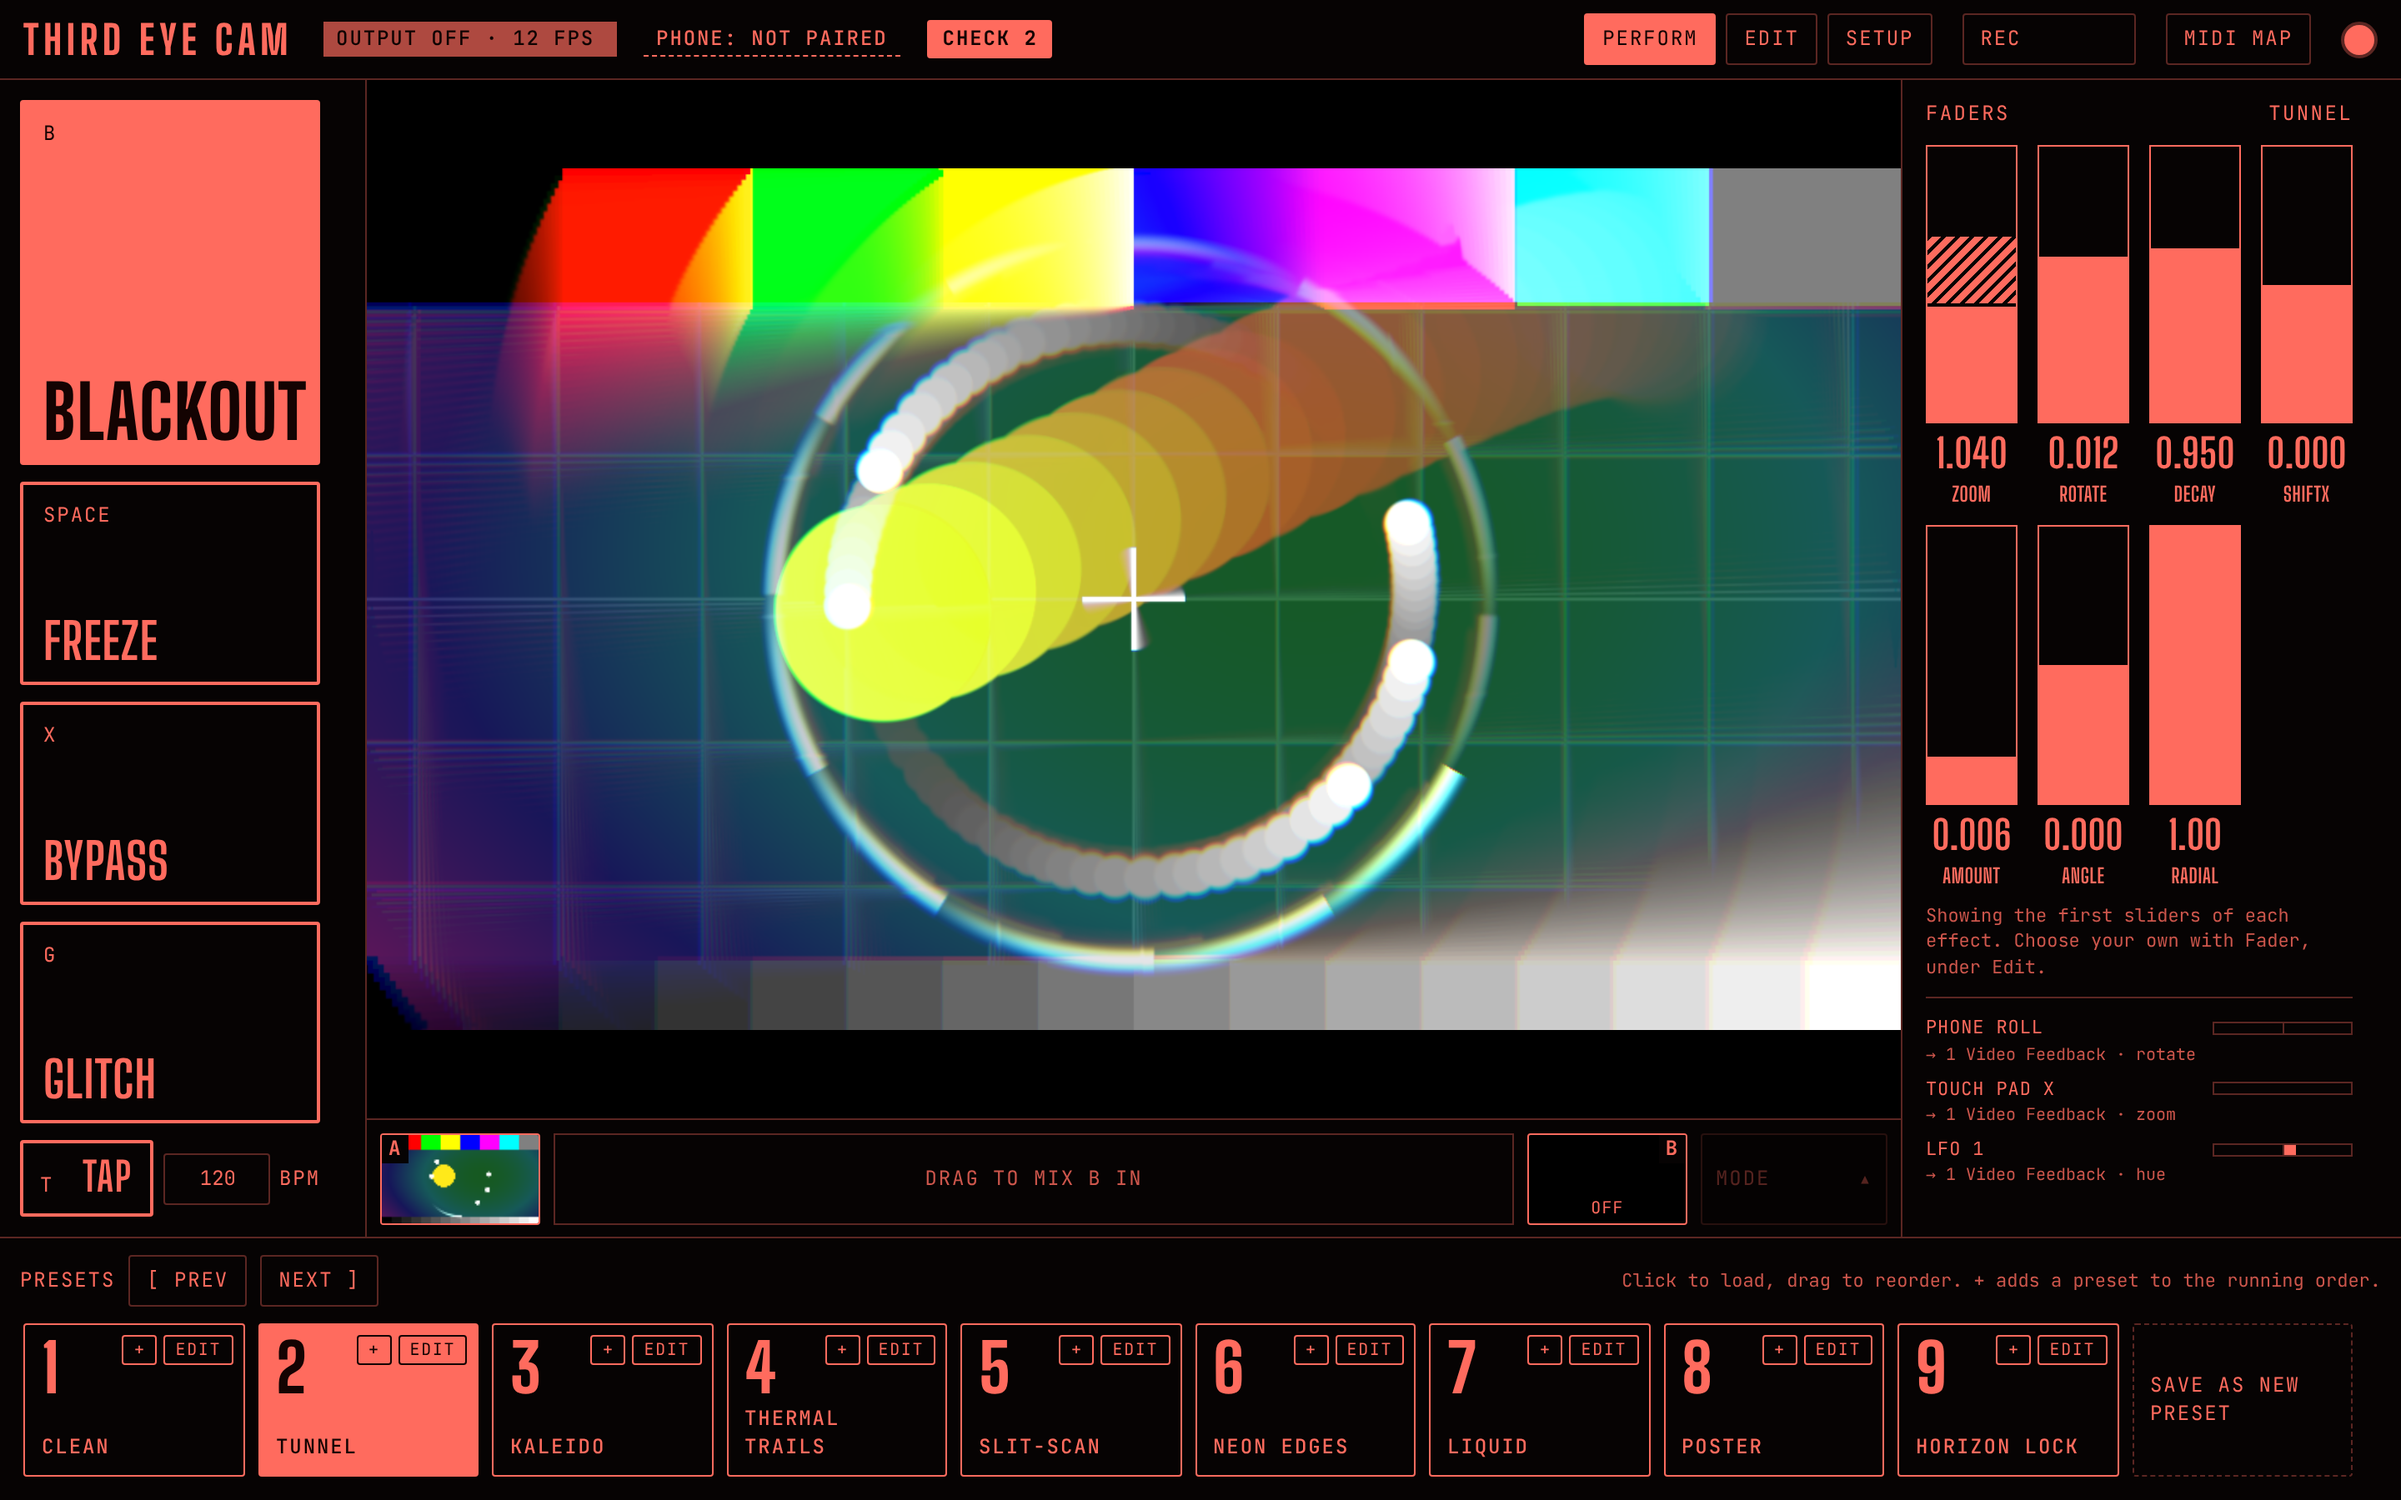
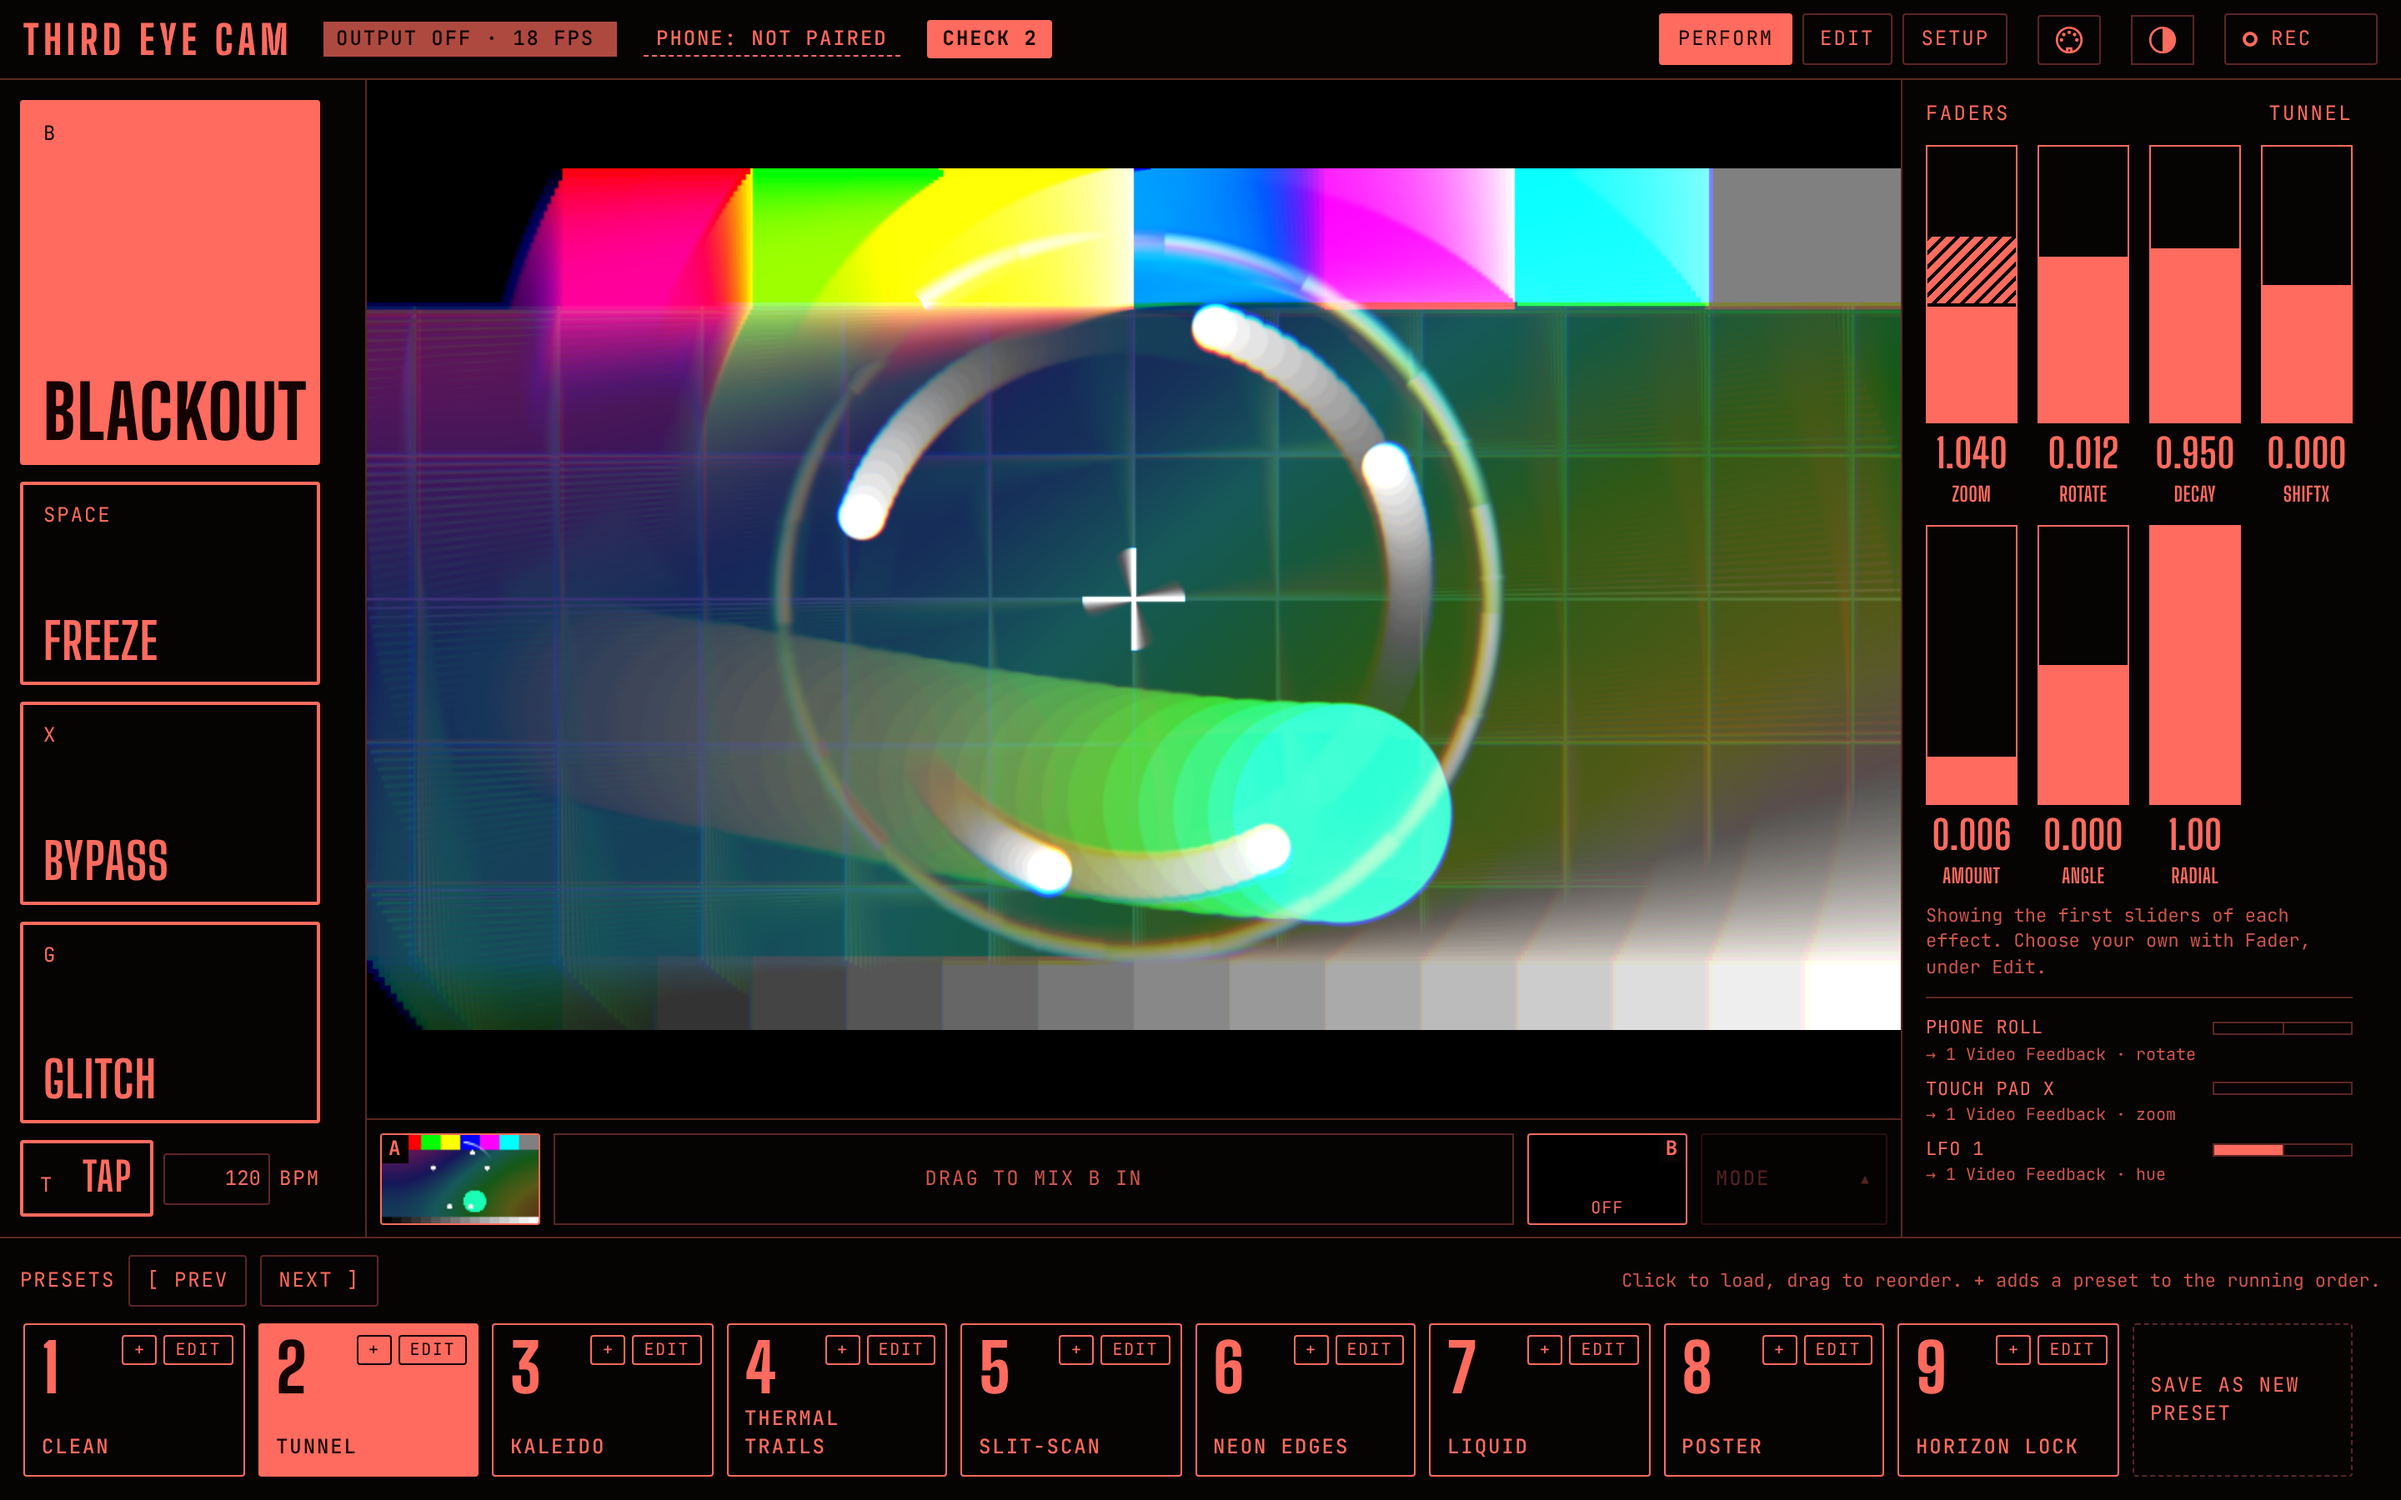
Handoff for the end of the sixth session; session screenshot
Claude-Session: https://claude.ai/code/session_0125cWe18LXathuqhzGgFDSz

diff --git a/HANDOFF.md b/HANDOFF.md
@@ -1,37 +1,46 @@
 # Handoff
 
-## 2026-11-23 (end of the sixth session, 22 to 23 November)
+## 2026-11-24 (end of the sixth session, 22 to 24 November)
 
-**Where things stand.** Stage 2 of the effects plan (the motion map, Motion,
-Gravity, Motion A / B as modulation sources) and the new Glitch are built
-and live on GitHub Pages from `main`. The owner has seen Motion and Gravity
-working on the real iPhone and Mac. Glitch, the Motion sources on a slider
-and the last round of edit screen changes have not been seen there.
+**Where things stand.** Everything is live on GitHub Pages from `main`:
+stage 2 of the effects plan (the motion map, Motion, Gravity, Motion A / B
+as modulation sources), Glitch as a jump of chosen sliders, a reordered
+top bar, a new starting screen on the Mac and an opening on the phone, and
+both screens saying so when a network keeps the phone and the Mac apart.
+The owner has used Motion, Gravity, Glitch and the top bar on the real Mac
+and scanned test codes in every palette with the iPhone; the two openings,
+the real code on the new starting screen and the blocked-network message
+have not been seen on real devices.
 
-**Next step.** On the real Mac: capture a glitch in a preset and fire it.
-Then stage 3 of the effects plan (Time and Scan).
+**Next step.** On the real iPhone and Mac: open the app in a new tab, scan
+the code in the camera, tap START. Then stage 3 of the effects plan (Time
+and Scan).
 
 **Decisions only you can make.**
 
+- Use Chrome for the Mac's control page. Your last screenshot was Safari,
+  which the page is not built or tested for.
+- If the top bar still reads "Phones: A … · B …": click it, open the
+  iPhone B tab, press Stop using iPhone B.
+- Open `/control` in a new tab with no phone paired and scan the code in
+  the camera with the iPhone. Say whether it scans and whether the
+  opening's timing is right.
+- On the iPhone, tap START and watch the opening: say whether the camera's
+  picture shows inside the camera shape as the noise clears, and whether it
+  is too long.
+- Next time you are on campus or venue Wi-Fi, try pairing there once and
+  say whether both screens tell you to use the hotspot.
 - Press Setup → Preset library → Bring back deleted factory presets to get
   Thermal trails back (the factory version; changes you had made to it are
   gone).
 - Try a Motion source on a slider (Mod → Motion A → Overall) and say
   whether it is lively enough or too jumpy. Say whether Gravity pours
   toward the room's floor when you roll the phone.
-- Next time you are on campus or venue Wi-Fi, try pairing there once and
-  say whether both screens tell you to use the hotspot.
-- On the iPhone, tap START and watch the opening: say whether the camera's
-  picture shows inside the camera shape as the noise clears, and whether it
-  is too long.
-- Open the app in a new tab to see the opening, and scan the code in the
-  camera with the iPhone. Say whether the opening's timing is right.
-- Try Glitch: Edit a preset → Glitch tab → Capture a glitch, move some
-  sliders, Keep, then press G. Say whether the pointer on the bar is
-  findable enough, and whether any factory preset should come with a
-  glitch of its own (none does).
-- Look at the edit screen as it now is (no "← Perform", no "In:" block,
-  the short Revert, Fade in in a narrow window) and say if anything is off.
+- Glitch: say whether 1% of a slider's travel is the right cut-off for a
+  move too small to keep, and whether any factory preset should come with
+  a glitch of its own (none does).
+- Say whether you want a network line in Before the show (a partial
+  self-test of the Wi-Fi; see "A network that keeps devices apart").
 - Say whether the bars on the Parameters tab are too narrow for drawing a
   modulation's range (about 100 px in a 1440-wide window). If so: shorten
   "Fader" to a mark, or widen that column.
@@ -171,6 +180,10 @@ are in `src/shared/camera-shape.js`. Not seen on a real iPhone: the masked
 video in Safari, and how long the noise really lasts on a real link. Also
 not done: the real code on the Mac's new screen has not been scanned by
 the iPhone, only test codes drawn the same way.
+
+**Tests, 24 November.** All twenty-seven suites passed in one full run
+before the last push, `modulation` and `midi-audio` among them (both had
+failed in the sandbox the day before, on the commit before as well).
 
 **A network that keeps devices apart (built 24 November).** The owner's
 worry: on venue or campus Wi-Fi the code scans, START works, and then
@@ -1122,8 +1135,8 @@ on me (from the top of HANDOFF.md). Then:
 This session: stage 3 of the effects plan in HANDOFF.md (Time and Scan,
 with the "driven by" menu). Tell me your approach first and wait for
 my go.
-<Add what you found when you tried stage 2 on the real iPhone and Mac:
-Glitch (capture, the pointer on the bar, hold from a phone trigger), a
-Motion source on a slider, which way Gravity pours when the phone is
-rolled.>
+<Add what you found on the real iPhone and Mac: whether the code in the
+camera on the starting screen scans; the two openings (Mac and phone);
+pairing on campus or venue Wi-Fi; a Motion source on a slider; which way
+Gravity pours when the phone is rolled.>
 ```
